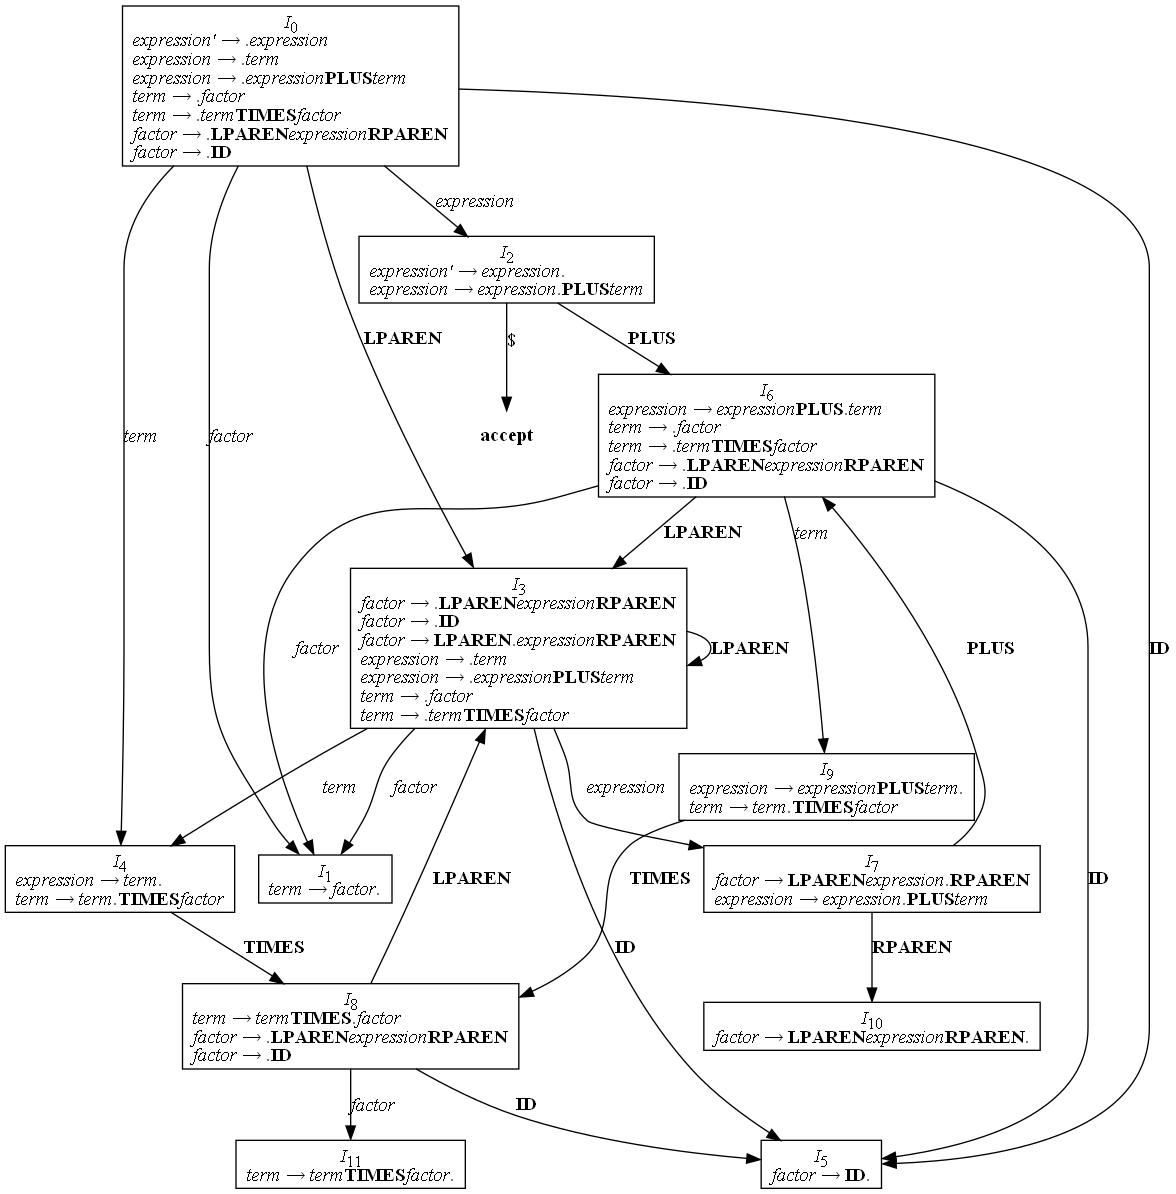
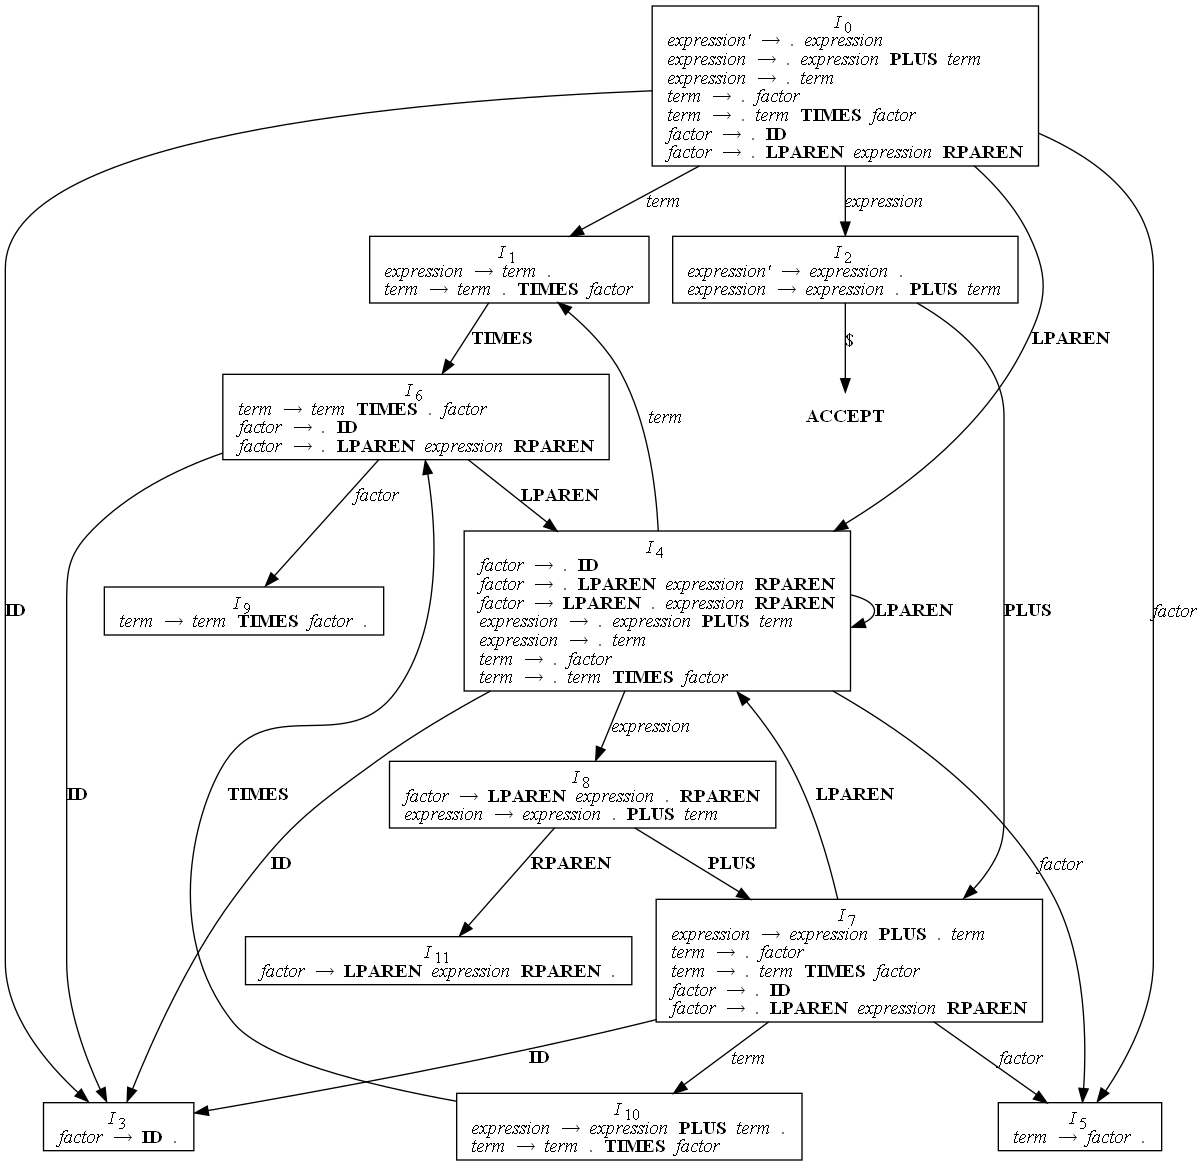
LR(0) Improvement

diff --git a/src/models/lr0.py b/src/models/lr0.py
@@ -20,23 +20,23 @@ def first_follow(G):
         for head, bodies in G.grammar.items():
             for body in bodies:
                 for symbol in body:
-                    if symbol != '^':
-                        updated |= union(first[head], first[symbol] - set('^'))
+                    if symbol != 'ε':
+                        updated |= union(first[head], first[symbol] - set('ε'))
 
-                        if '^' not in first[symbol]:
+                        if 'ε' not in first[symbol]:
                             break
                     else:
-                        updated |= union(first[head], set('^'))
+                        updated |= union(first[head], set('ε'))
                 else:
-                    updated |= union(first[head], set('^'))
+                    updated |= union(first[head], set('ε'))
 
                 aux = follow[head]
                 for symbol in reversed(body):
-                    if symbol == '^':
+                    if symbol == 'ε':
                         continue
                     if symbol in follow:
-                        updated |= union(follow[symbol], aux - set('^'))
-                    if '^' in first[symbol]:
+                        updated |= union(follow[symbol], aux - set('ε'))
+                    if 'ε' in first[symbol]:
                         aux = aux | first[symbol]
                     else:
                         aux = first[symbol]
@@ -76,7 +76,7 @@ class SLRParser:
                         if symbol_after_dot in self.G_prime.nonterminals:
                             for G_body in self.G_prime.grammar[symbol_after_dot]:
                                 J.setdefault(symbol_after_dot, set()).add(
-                                    ('.',) if G_body == ('^',) else ('.',) + G_body)
+                                    ('.',) if G_body == ('ε',) else ('.',) + G_body)
 
             if item_len == len(J):
                 return J
@@ -134,7 +134,7 @@ class SLRParser:
 
                     elif body[-1] == '.' and head != self.G_prime.start:  # CASE 2 b
                         for j, (G_head, G_body) in enumerate(self.G_indexed):
-                            if G_head == head and (G_body == body[:-1] or G_body == ('^',) and body == ('.',)):
+                            if G_head == head and (G_body == body[:-1] or G_body == ('ε',) and body == ('.',)):
                                 for f in self.follow[head]:
                                     if parse_table[i][f]:
                                         parse_table[i][f] += '/'
@@ -161,17 +161,17 @@ class SLRParser:
 
         # Construcción del contenido del autómata, similar a lo anterior
         for i, I in enumerate(self.C):
-            I_html = f'<<I>I</I><SUB>{i}</SUB><BR/>'
+            I_html = f'<<I>I</I><SUB> {i} </SUB><BR/>'
             for head, bodies in I.items():
                 for body in bodies:
-                    I_html += f'<I>{head}</I> &#8594; '
+                    I_html += f'<I> {head} </I> &#8594; '
                     for symbol in body:
                         if symbol in self.G_prime.nonterminals:
-                            I_html += f'<I>{symbol}</I>'
+                            I_html += f'<I> {symbol} </I>'
                         elif symbol in self.G_prime.terminals:
-                            I_html += f'<B>{symbol}</B>'
+                            I_html += f'<B> {symbol} </B>'
                         else:
-                            I_html += f'{symbol}'
+                            I_html += f' {symbol} '
                     I_html += '<BR ALIGN="LEFT"/>'
             automaton.node(f'I{i}', f'{I_html}>')
 
@@ -185,7 +185,7 @@ class SLRParser:
                         i = i[:i.index('/')]
                     automaton.edge(f'I{r}', f'I{i}', label=f'<<B>{c}</B>>' if c in self.G_prime.terminals else c)
                 elif self.parse_table[r][c] == 'acc':
-                    automaton.node('acc', '<<B>accept</B>>', shape='none')
+                    automaton.node('acc', '<<B>ACCEPT</B>>', shape='none')
                     automaton.edge(f'I{r}', 'acc', label='$')
 
         # Renderizar y guardar el autómata en un directorio específico
